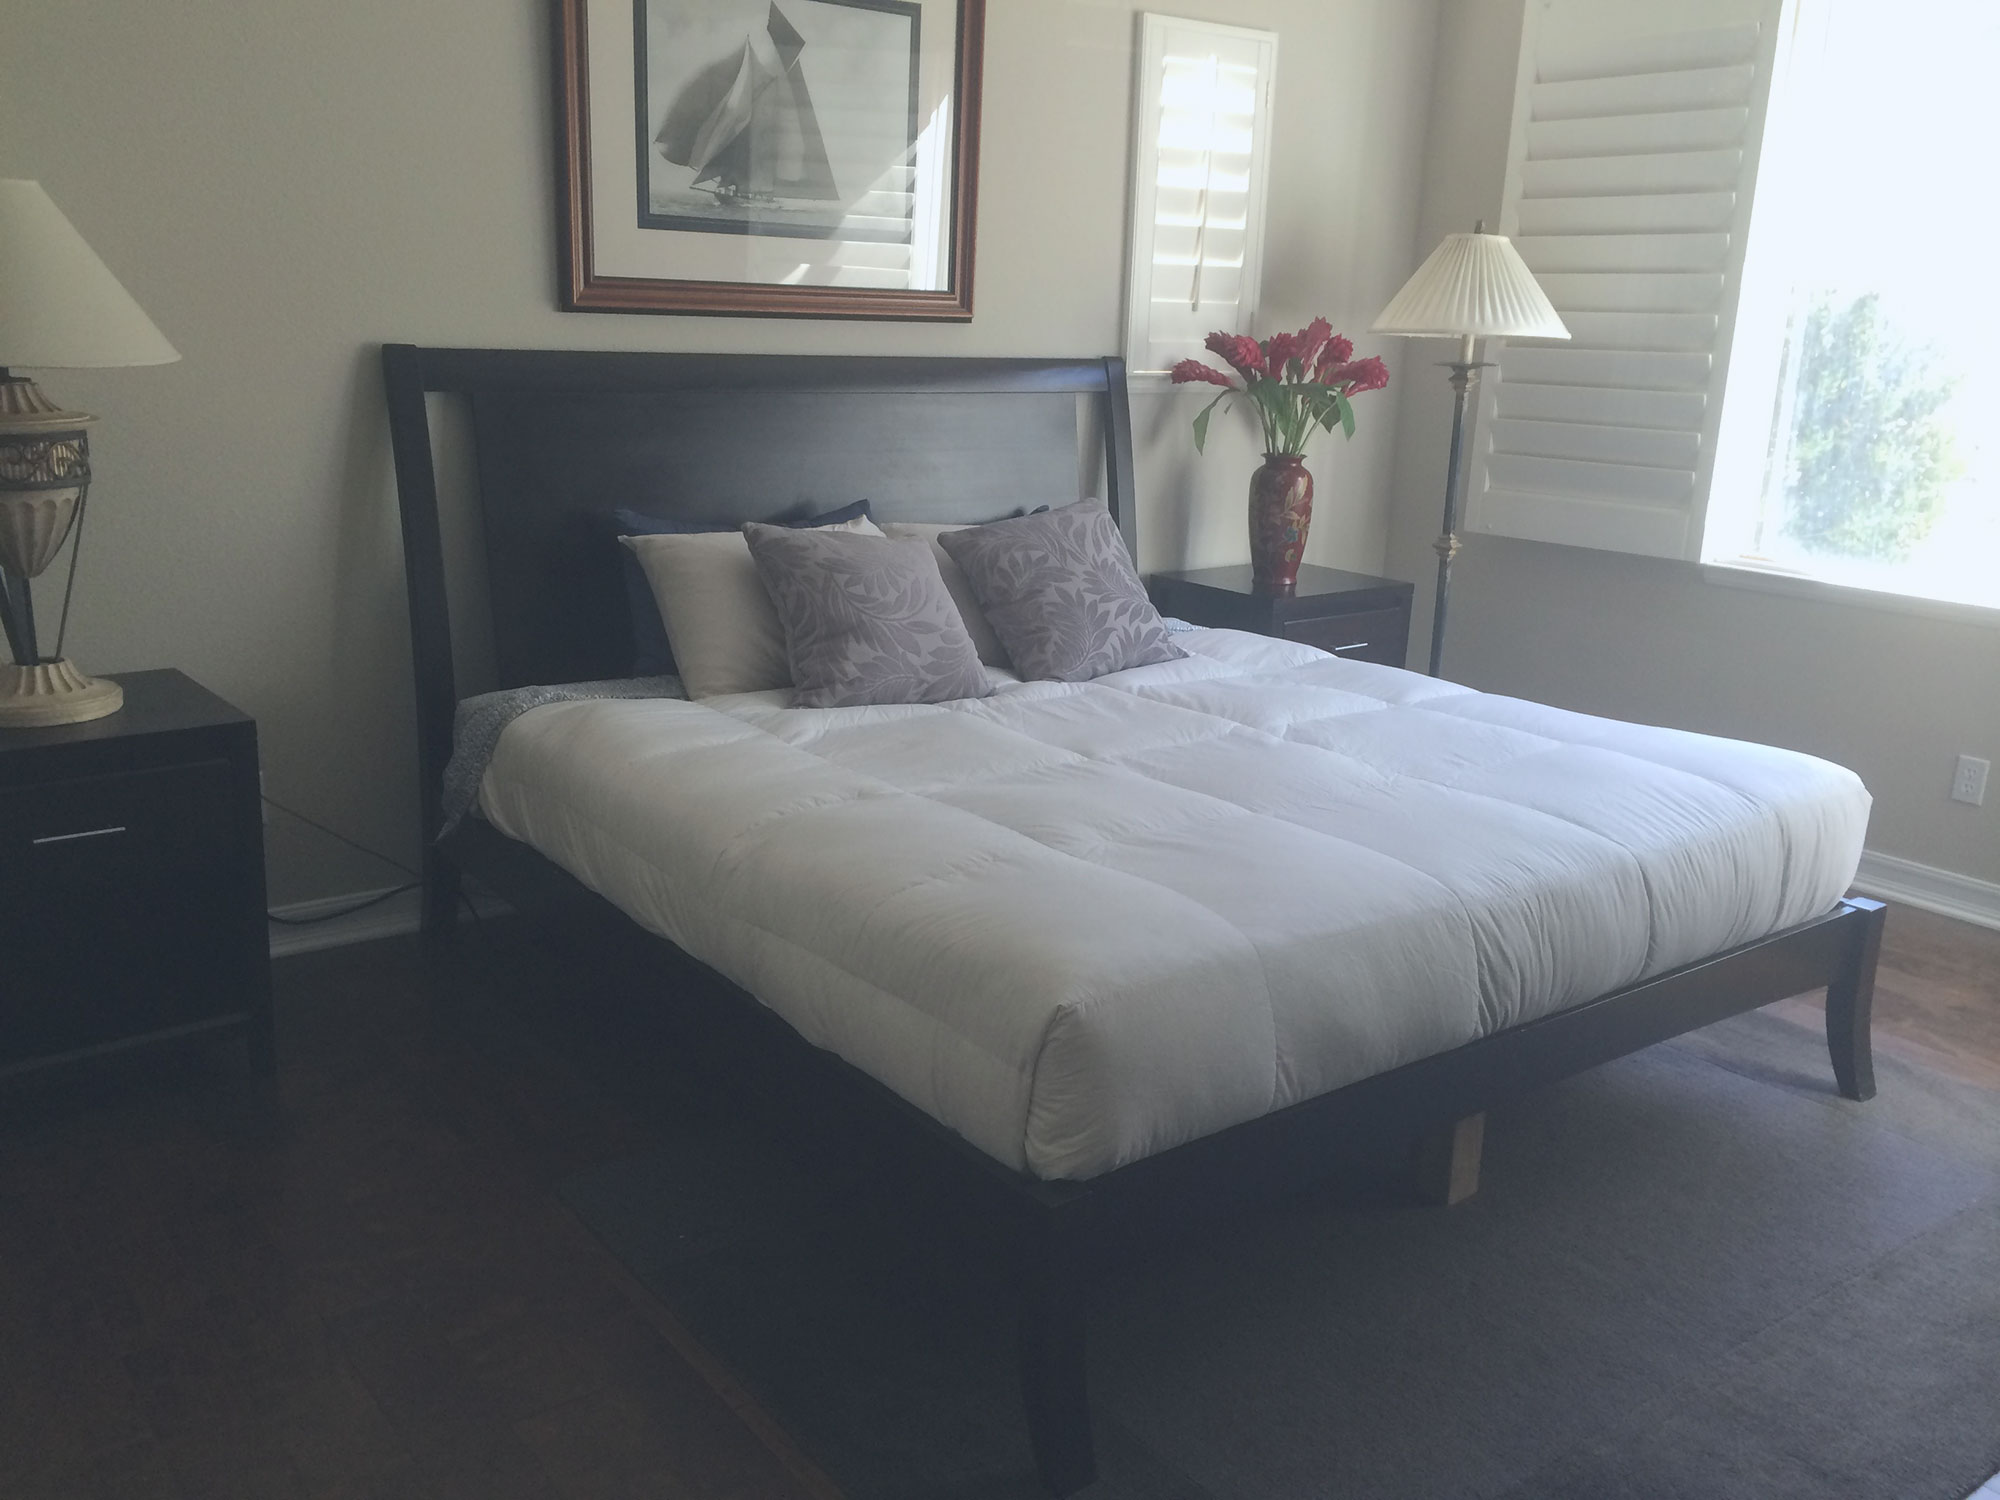
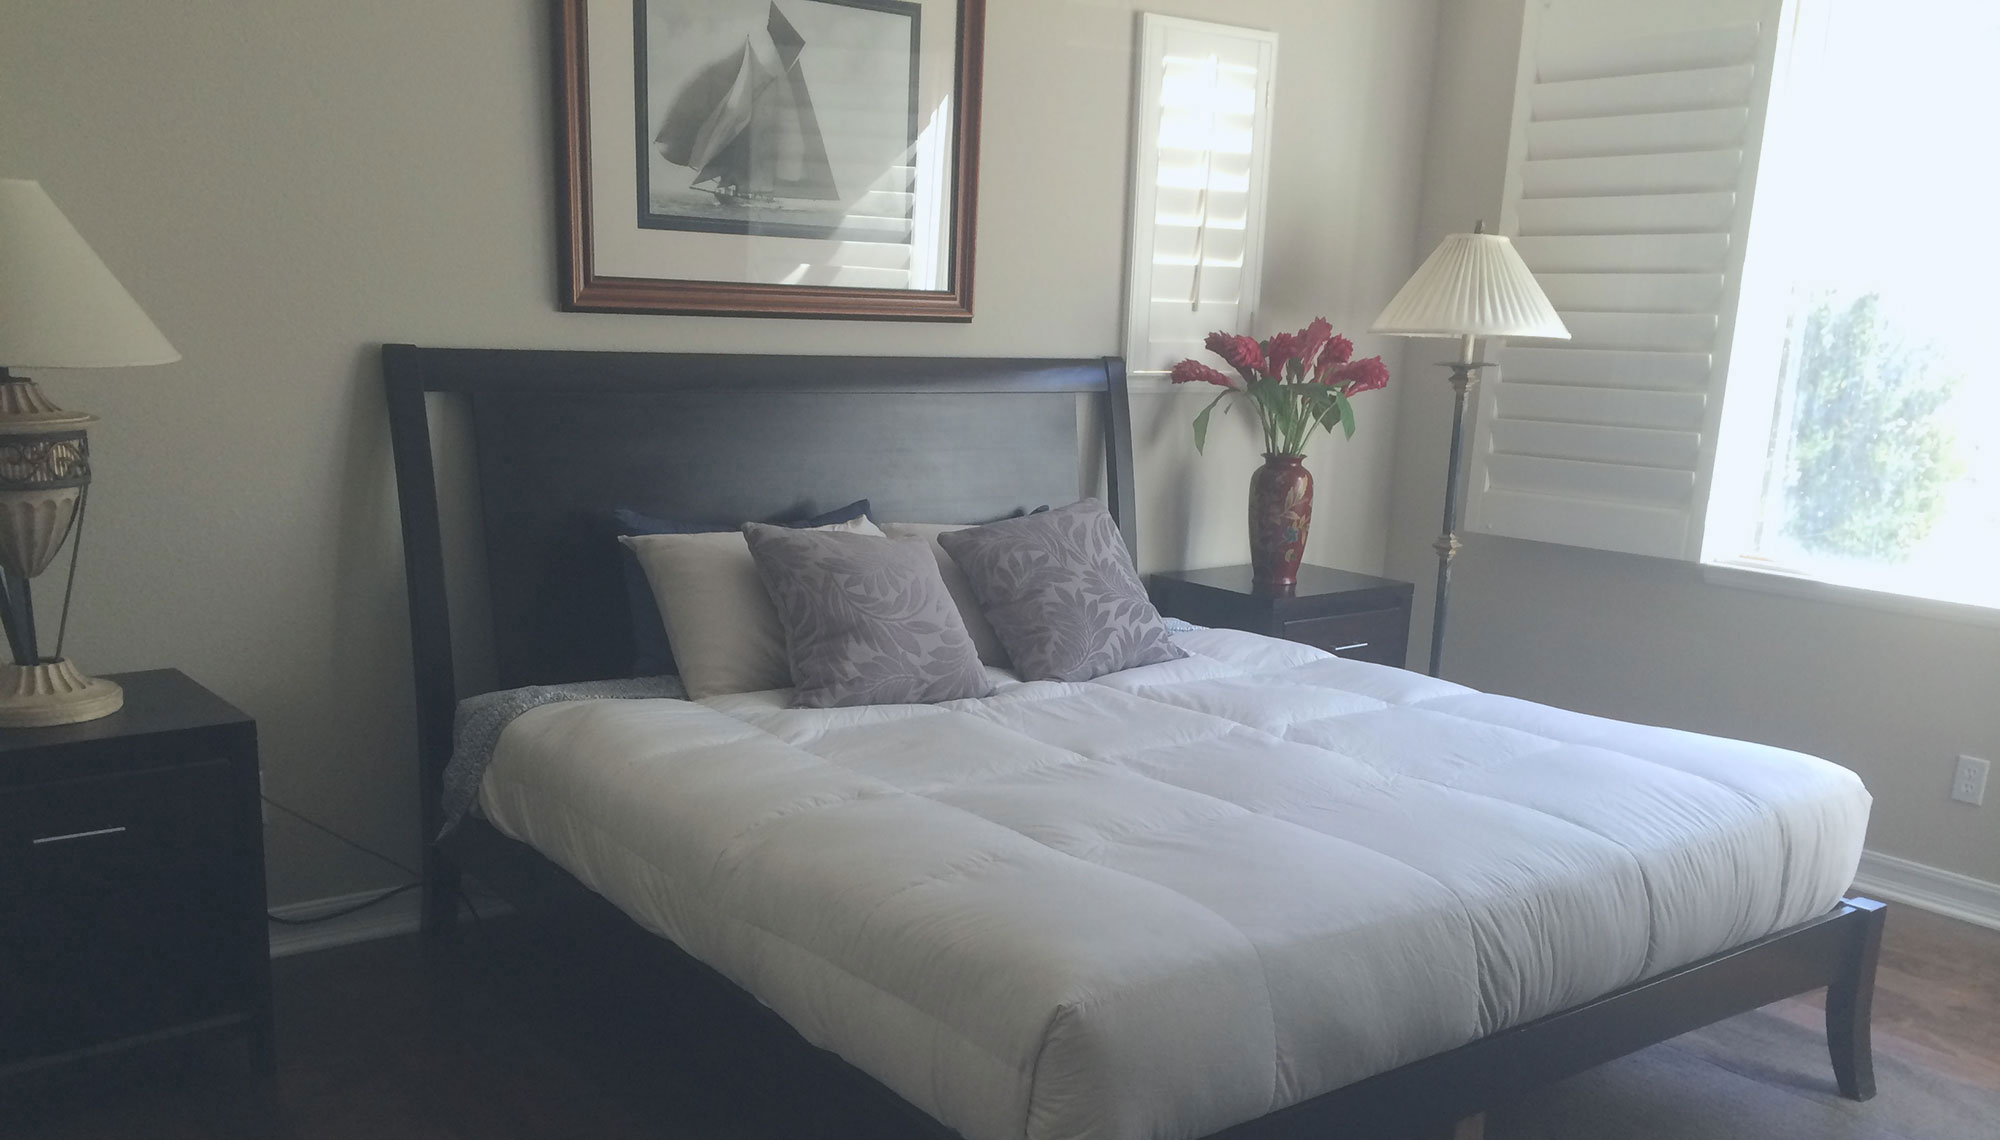
added section2

diff --git a/index.html b/index.html
@@ -30,7 +30,7 @@
 			</div>
 		</div>
 	</header>
-	<main class="slideshow-container">
+	<div class="slideshow-container">
 		<div class="main-overlay-container">
 			<img src="img/main-overlay2.png" alt="" class="main-overlay-img">
 		</div>
@@ -50,7 +50,16 @@
 		<!--SLIDESHOW IMAGES-->
 		<img class="slideshow-img" src="img/bedroom.jpg" alt="">
 		<img class="slideshow-img" src="img/flowers-mist.jpg" alt="">
-	</main>
+	</div>
+	<div class="divider1 bg-aqua">
+		<h3 class="divider1-h3 text-white">Lorem ipsum dolor</h3>
+	</div>
+	<div class="section2 bg-white">
+		<div class="section-wrap">
+			<div class="section2-col col-6"><p class="section2-col-p text-dark-blue">Lorem ipsum dolor sit amet, consectetur adipisicing elit. Temporibus nesciunt veniam tempora aspernatur quibusdam earum, consequatur, recusandae culpa aut impedit at harum voluptatum reiciendis id delectus dicta itaque cum dolorem.</p></div>
+			<div class="section2-col col-6"><p class="section2-col-p text-dark-blue">Lorem ipsum dolor sit amet, consectetur adipisicing elit. Omnis, laudantium! Accusantium consequuntur facere, laborum excepturi, nostrum veniam repellat, mollitia nobis nam itaque sit laboriosam. Porro placeat, ipsa quidem eos nemo?</p></div>
+		</div>
+	</div>
 	<footer></footer>
 </body>
 </html>

diff --git a/css/main.css b/css/main.css
@@ -72,9 +72,13 @@ GRID
 COLORS
 ***********************/
 .text-white {color:#fff;}
-.bg-white {background:#fff;}
+.bg-white {background: #FFF;}
+
 .text-aqua {color:rgba(22,149,162,0.95);}
 .bg-aqua {background:rgba(22,149,162,0.95);}
+
+.text-dark-blue{color: #28494C;}
+.bg-dark-blue{background:#28494C;}
 
 /***********************
 HEADER
@@ -171,7 +175,7 @@ MAIN
 	position: relative;
 	z-index: 2;
 	top: 470px;
-	opacity:0;
+	opacity:1;
 	width: 461px;
 	height: 110px;
 	margin: 0 auto;
@@ -199,7 +203,7 @@ SLIDESHOW
 	.slideshow-container {
 		position:relative;
 		width:100%;
-		padding-bottom:75%;
+		padding-bottom: 57%;
 		height:0;
 	}
 	.slideshow-img {
@@ -208,7 +212,34 @@ SLIDESHOW
 		left:0;
 		width:100%;
 	}
+/***********************
+DIVIDER1
+***********************/
+.divider1 {
+	height: 78px;
+	position: relative;
+	z-index: 3;
+}
+.divider1-h3 {
+	text-align:center;
+	line-height:78px;
+	text-transform:capitalize;
+}
+/***********************
+SECTION2
+***********************/
+.section2 {
+	position:relative;
+	z-index:3;
+	height: 400px;
+}
+.section2-col {
+	float:left;
+	padding: 5% 4% 5%;
+}
+.section2-col-p {
 
+}
 /***********************
 FOOTER
 ***********************/

diff --git a/js/app.js b/js/app.js
@@ -8,12 +8,14 @@ return new Za.prototype.init(a,b,c,d,e)}m.Tween=Za,Za.prototype={constructor:Za,
 
 function slideshow(){
 	$('.slideshow-img').slice(1).hide();
+	/*
 	setInterval(function(){
 		$('.slideshow-img').first().fadeOut(2500)
 		.next().fadeIn(2500)
 		.end()
 		.appendTo('.slideshow-container');
 	}, 8000); //end set interval
+	*/
 } //end function define
 
 function dropCenterButtons(){
@@ -26,5 +28,5 @@ function dropCenterButtons(){
 //READY
 $(function(){
 	slideshow();
-	dropCenterButtons();
+	//dropCenterButtons();
 });
